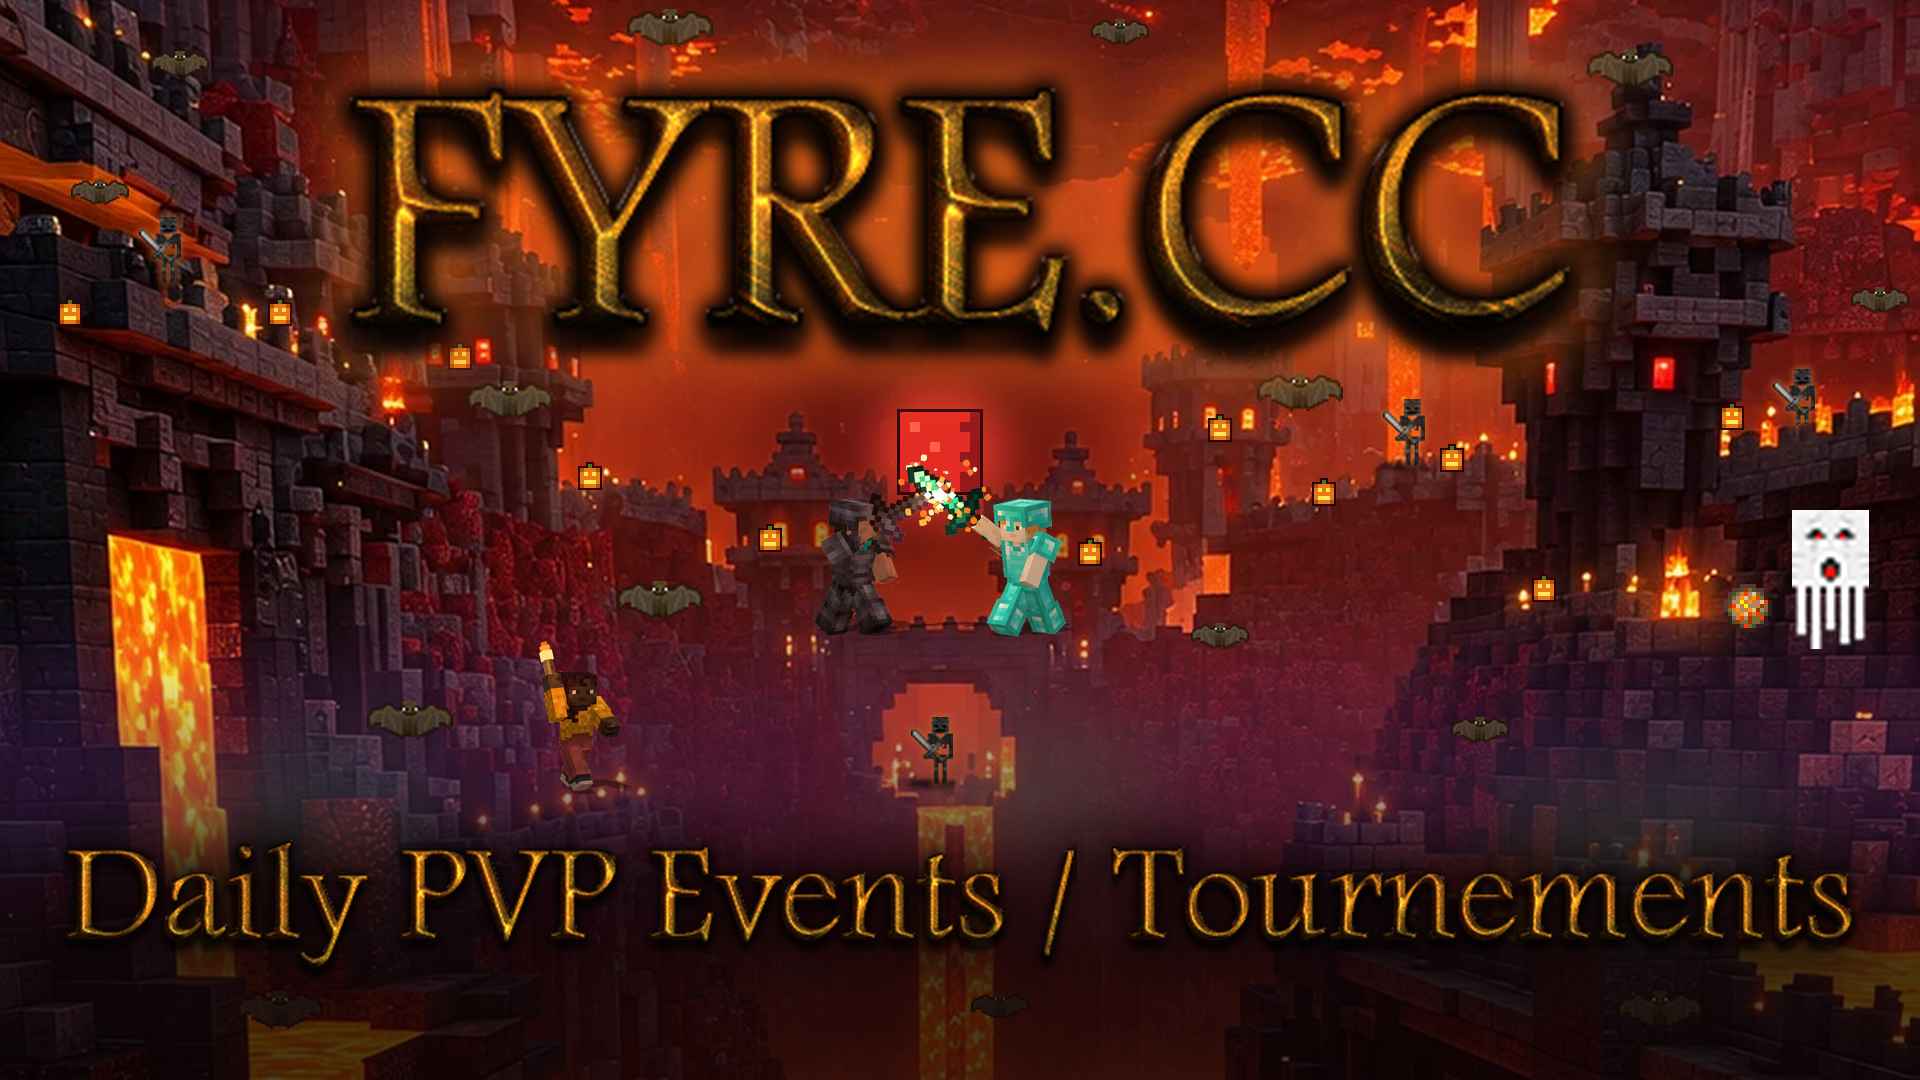
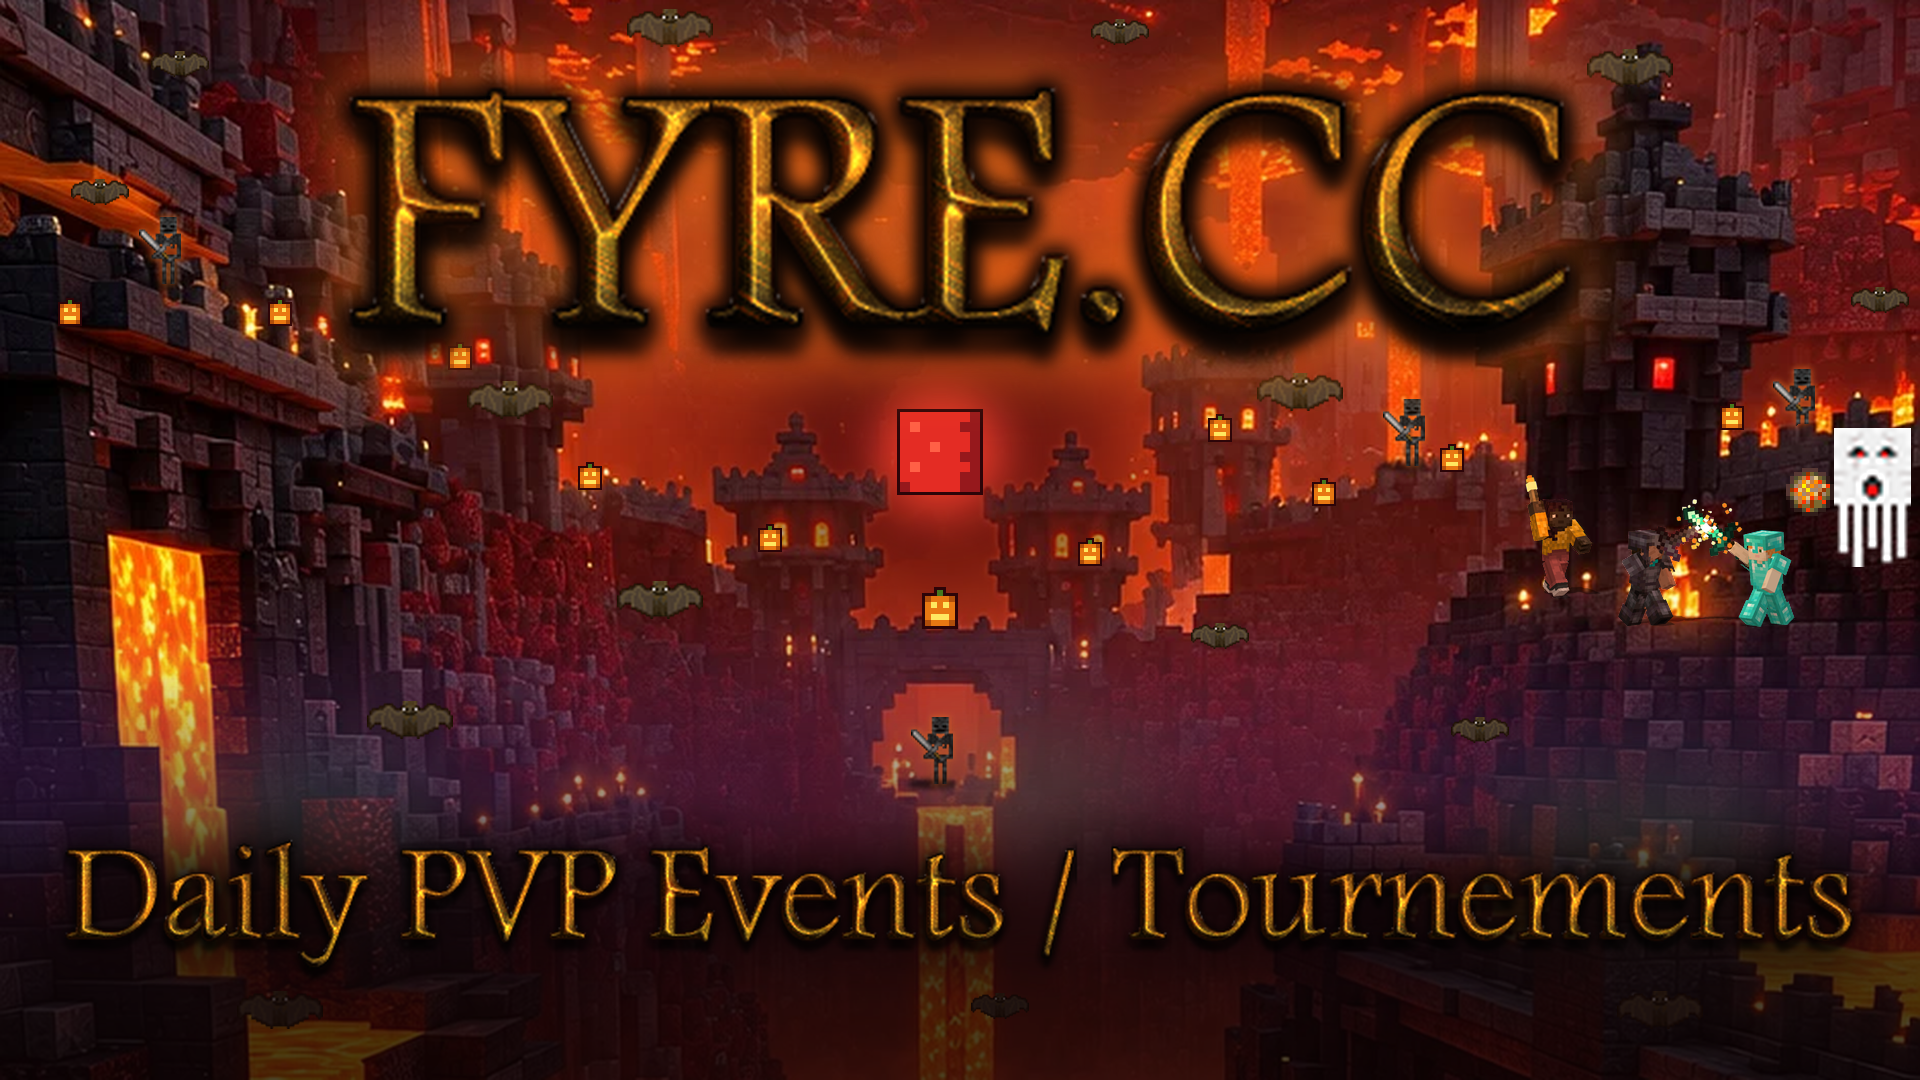
Put the duel and the explorer on the ghast's hill
The two sword-fighters stand on the big stone terrace beside the brazier
and the explorer on the step to its left; with --players the ghast
moves up-right and fires its fireball over their heads. The gate pumpkin
is back and the players no longer use the bridge or the candle ledge.

Claude-Session: https://claude.ai/code/session_01LPehDgsXCVDFiYqWq7LdDj

Changed region(s): [[0.7812, 0.3972, 1.0, 0.6111], [0.4062, 0.4278, 0.5625, 0.6111], [0.2812, 0.5806, 0.3438, 0.7333]]

diff --git a/branding/fyre/halloween.py b/branding/fyre/halloween.py
@@ -148,11 +148,11 @@ def scene(base, players=False):
         (230, 184, 2),                         # ledge under the left tower's windows
         (295, 244, 2),                         # left wall top
         (385, 275, 2),                         # ledge under the left centre tower's windows
-        *(() if players else ((470, 313, 3),)),  # gate wall, centre (the duel stands there when --players)
+        (470, 313, 3),                         # gate wall, centre
         (545, 282, 2),                         # ledge under the right centre tower's windows
         (610, 220, 2),                         # ledge on the tall right tower
         (662, 252, 2), (726, 235, 2),          # right-hand wall top
-        (772, 300, 2),                         # base of the big right tower
+        *(() if players else ((772, 300, 2),)),  # base of the big right tower (the explorer stands there when --players)
         (866, 214, 2),                         # far right wall
     ]
     d = ImageDraw.Draw(base)
@@ -160,9 +160,10 @@ def scene(base, players=False):
         b = round(k * f)
         sprite(d, PUMPKIN, x*f, y*f - len(PUMPKIN) * b / 2, b, outline=max(1, round(b / 2)))
 
-    if players:  # two players sword-fighting on the gate bridge under the moon, one exploring a candle-lit ledge with a torch
-        place_render(base, 'duel', 470, 316, 2.0, f)
-        place_render(base, 'explorer', 288, 399, 1.85, f)
+    if players:  # on the right-hand hill, with the ghast attacking: two players sword-fighting on the big
+        # stone terrace (y~311), one exploring along the step to its left (y~300) with a torch
+        place_render(base, 'duel', 853, 312, 1.4, f)
+        place_render(base, 'explorer', 778, 301, 1.5, f)
 
     # mobs built from Minecraft's own textures (see mobs/README.md), spread across the width:
     # wither skeletons standing behind battlements or on a ledge, the ghast floating in front of the right-hand hill,
@@ -172,8 +173,9 @@ def scene(base, players=False):
         mob(base, 'wither_skeleton', x*f, y*f, 1.05*f, anchor='bottom', rim=True,
             behind=wall*f if wall else None, shadow=wall is None)
     # the ghast shooting a fireball: open mouth, with the fireball flying out toward the castle
-    mob(base, 'ghast_shooting', 915*f, 290*f, 2.4*f)
-    mob(base, 'fireball', 874*f, 304*f, 2.0*f)
+    gx, gy, fx, fy = (936, 249, 905, 246) if players else (915, 290, 874, 304)  # moves up-right to give the duel room
+    mob(base, 'ghast_shooting', gx*f, gy*f, 2.4*f)
+    mob(base, 'fireball', fx*f, fy*f, 2.0*f)
     # bats spread over the whole canvas (x, y, scale): top strip, edges, below the logo, canyon, bottom
     for x, y, s in ((90,32,.8), (335,14,1.2), (560,16,.8), (815,34,1.2), (50,96,.8), (940,150,.8),
                     (255,200,1.2), (650,196,1.2), (330,300,1.2), (610,318,.8), (205,360,1.2),
